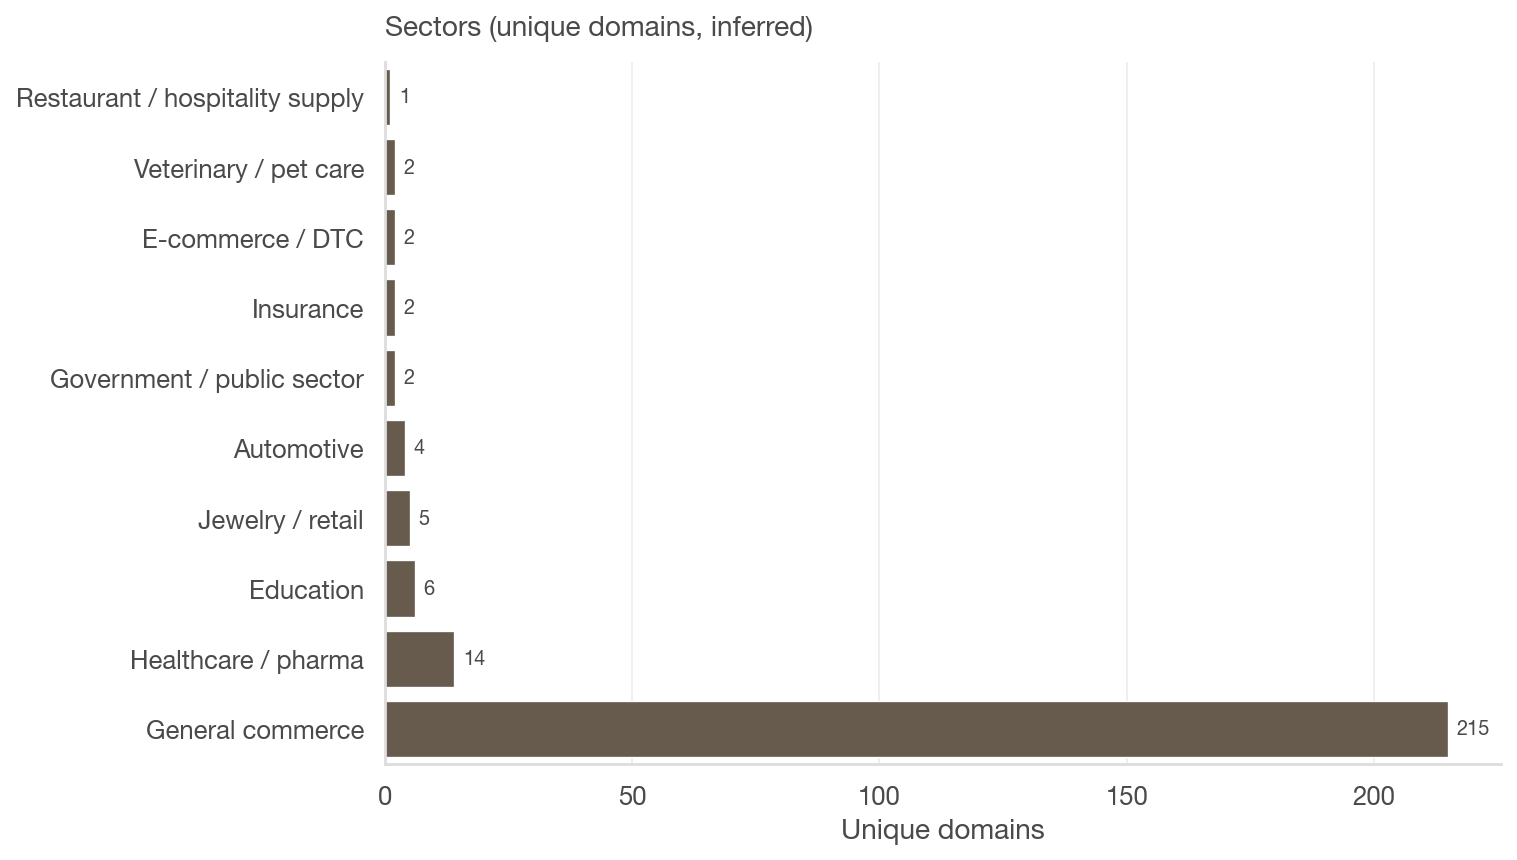
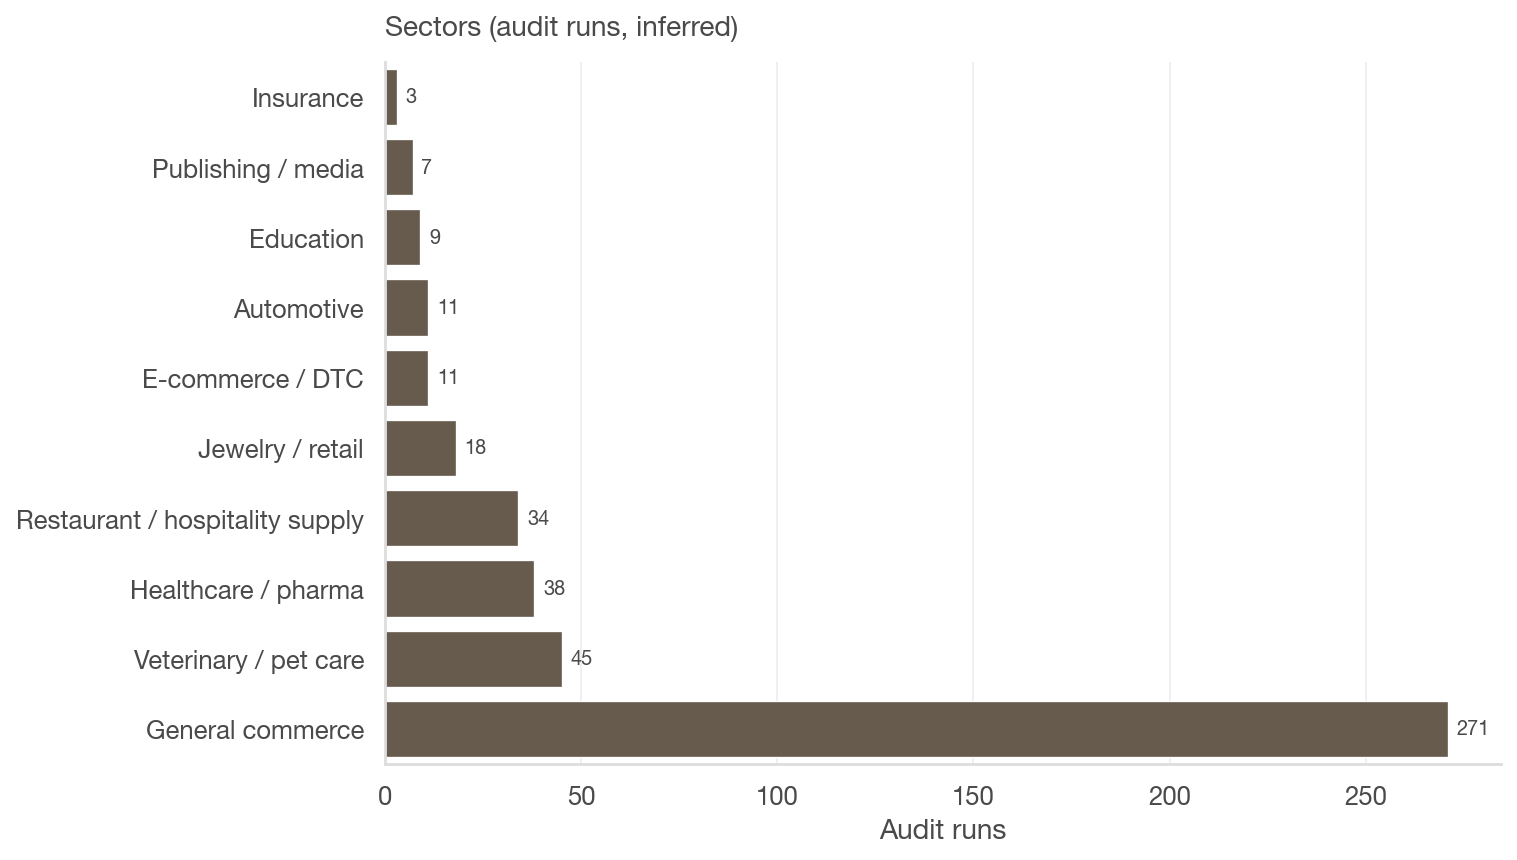
change viz

diff --git a/scripts/enrich.py b/scripts/enrich.py
@@ -356,6 +356,15 @@ def compute_aggregates(
         size_counts[sz] += 1
         sector_counts[primary_sector(prof.sectors)] += 1
 
+    sector_audit_counts: Counter = Counter()
+    for r in requests:
+        dom = url_domain(r.get("url", ""))
+        if not dom:
+            continue
+        prof = profiles.get(dom)
+        sector = primary_sector(prof.sectors) if prof else primary_sector(sector_tags(dom))
+        sector_audit_counts[sector] += 1
+
     # Lead-only org signals (email-based, for "who is checking")
     lead_org_type = Counter()
     for row in leads:
@@ -368,11 +377,11 @@ def compute_aggregates(
     # Anonymized examples (one per sector, max 10)
     examples: list[str] = []
     seen_sectors: set[str] = set()
-    for sector, _ in sector_counts.most_common():
+    for sector, _ in sector_audit_counts.most_common():
         if sector in seen_sectors:
             continue
         seen_sectors.add(sector)
-        n = sector_counts[sector]
+        n = sector_audit_counts[sector]
         examples.append(anonymized_example(sector, n))
         if len(examples) >= 10:
             break
@@ -427,6 +436,7 @@ def compute_aggregates(
         "org_type_lead_rows": dict(lead_org_type),
         "size_proxy_unique_domains": dict(size_counts),
         "sector_unique_domains": dict(sector_counts.most_common(15)),
+        "sector_audit_counts": dict(sector_audit_counts.most_common(15)),
         "verdicts_leads": dict(verdicts),
         "anonymized_examples": examples,
         "public_agency_note": public_agency_note,

diff --git a/scripts/build_story.py b/scripts/build_story.py
@@ -164,8 +164,8 @@ def main() -> None:
     size_items = [(label_map_size(k), v) for k, v in sorted(agg["size_proxy_unique_domains"].items(), key=lambda x: -x[1])]
     chart_size_proxy = svg_horizontal_bars(size_items, "Size proxy (unique domains)")
 
-    sector_items = list(agg["sector_unique_domains"].items())[:10]
-    chart_sectors = svg_horizontal_bars(sector_items, "Sectors (unique domains)")
+    sector_items = list(agg["sector_audit_counts"].items())[:10]
+    chart_sectors = svg_horizontal_bars(sector_items, "Sectors (audit runs)")
 
     user_leads = agg["volume"]["user_lead_rows"] or 1
     pct_free = round(100 * agg["volume"]["free_email_user_leads"] / user_leads)

diff --git a/scripts/charts.py b/scripts/charts.py
@@ -227,8 +227,8 @@ def generate_all_charts(
         ),
         "sectors": chart_horizontal_bars(
             sector_items,
-            title="Sectors (unique domains, inferred)",
-            xlabel="Unique domains",
+            title="Sectors (audit runs, inferred)",
+            xlabel="Audit runs",
             filename="sectors.png",
             out_dir=charts_dir,
             color="#6b5b4a",

diff --git a/output/data_story.md b/output/data_story.md
@@ -117,25 +117,25 @@ Among **160** lead rows (after filtering **13** internal, test, or disposable ad
 
 ## What kinds of sites
 
-Sector tags are inferred from domain names. Counts are **unique domains**, not raw audit volume.
+Sector tags are inferred from domain names. Counts are **audit runs** (each time a URL was tested), not deduplicated by domain.
 
-![Sectors — unique domains, inferred](charts/sectors.png)
+![Sectors — audit runs, inferred](charts/sectors.png)
 
 <details>
 <summary>Sector table (data)</summary>
 
-| Sector | Unique domains |
-|--------|---------------:|
-| General commerce | 215 |
-| Healthcare / pharma | 14 |
-| Education | 6 |
-| Jewelry / retail | 5 |
-| Automotive | 4 |
-| Veterinary / pet care | 2 |
-| E-commerce / DTC | 2 |
-| Insurance | 2 |
-| Government / public sector | 2 |
-| Restaurant / hospitality supply | 1 |
+| Sector | Audit runs |
+|--------|-----------:|
+| General commerce | 271 |
+| Veterinary / pet care | 45 |
+| Healthcare / pharma | 38 |
+| Restaurant / hospitality supply | 34 |
+| Jewelry / retail | 18 |
+| Automotive | 11 |
+| E-commerce / DTC | 11 |
+| Education | 9 |
+| Publishing / media | 7 |
+| Insurance | 3 |
 
 
 </details>
@@ -143,15 +143,15 @@ Sector tags are inferred from domain names. Counts are **unique domains**, not r
 ### Category-level examples (no contact details)
 
 - General commercial website (one of several similar sites in this dataset)
+- Regional veterinary or pet-care business (one of several similar sites in this dataset)
 - Healthcare or life-sciences organization (one of several similar sites in this dataset)
-- College or university property (one of several similar sites in this dataset)
+- Restaurant or hospitality supplier (one of several similar sites in this dataset)
 - Independent jewelry or specialty retailer (one of several similar sites in this dataset)
 - Automotive dealer or services (one of several similar sites in this dataset)
-- Regional veterinary or pet-care business
-- Direct-to-consumer or e-commerce brand
-- Insurance or benefits provider
-- Public-agency or state-related site
-- Restaurant or hospitality supplier
+- Direct-to-consumer or e-commerce brand (one of several similar sites in this dataset)
+- College or university property (one of several similar sites in this dataset)
+- Publisher or media property (one of several similar sites in this dataset)
+- Insurance or benefits provider (one of several similar sites in this dataset)
 
 
 ## Middle tech and ordinary commerce